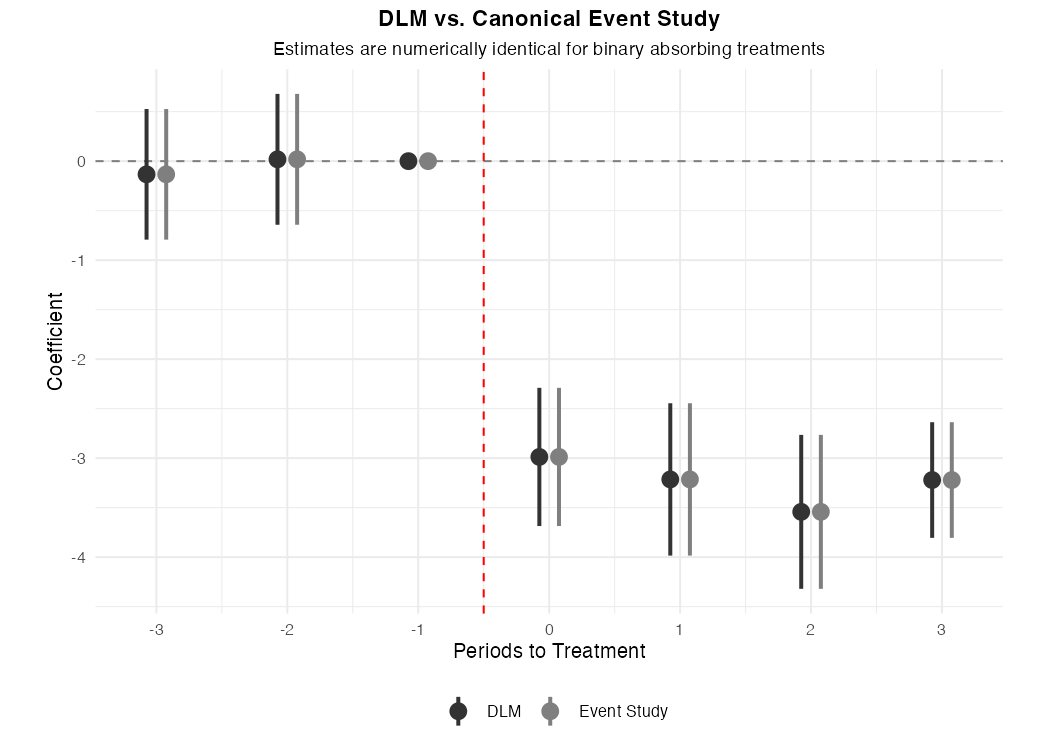
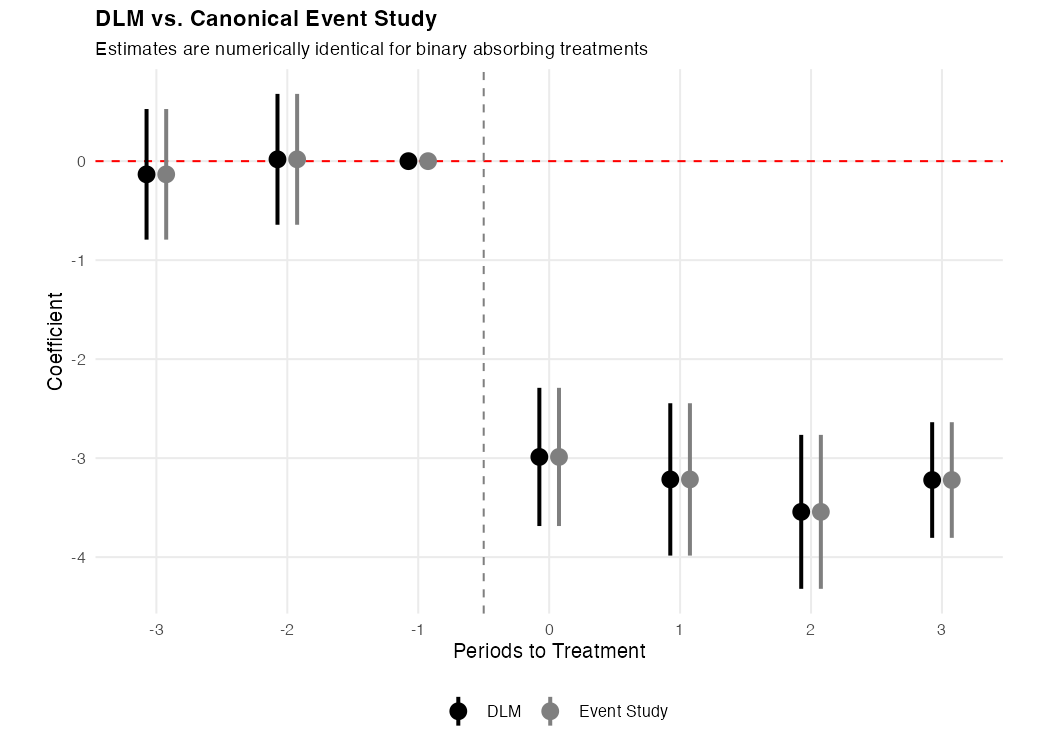
Fix nc700 formatting: red zero line, gray ref, black lines, larger points
- Zero line: red dashed (was gray)
- Reference vline: gray dashed (was red)
- Ribbon: grey20 alpha 0.2 (was gray30/0.3)
- Line/points: black (was gray20), points size 2.5
- Title: left-aligned, caption: right-aligned
- Minor gridlines removed
- Regenerated all plot images with time_labels demo

diff --git a/docs/getting-started/worked-example.md b/docs/getting-started/worked-example.md
@@ -297,18 +297,19 @@ Now plot the canonical event-study estimates:
 
     ```r
     ggplot(es_df, aes(x = time_to_event, y = coef)) +
-      geom_hline(yintercept = 0, lty = 2, color = "gray50") +
-      geom_vline(xintercept = -0.5, lty = 2, color = "red") +
+      geom_hline(yintercept = 0, lty = 2, color = "red") +
+      geom_vline(xintercept = -0.5, lty = 2, color = "gray50") +
       geom_ribbon(aes(ymin = coef - 1.96 * se, ymax = coef + 1.96 * se),
-                  alpha = 0.3, fill = "gray30") +
-      geom_line(color = "gray20", linewidth = 0.8) +
-      geom_point(color = "gray20", size = 1.5) +
+                  alpha = 0.2, fill = "grey20") +
+      geom_line(color = "black", linewidth = 0.8) +
+      geom_point(color = "black", size = 2.5) +
       scale_x_continuous(breaks = -3:3) +
       labs(title = "Canonical Event Study",
            x = "Periods to Treatment", y = "Coefficient") +
       theme_minimal(base_size = 10) +
       theme(aspect.ratio = 0.6,
-            plot.title = element_text(size = 11, face = "bold", hjust = 0.5))
+            plot.title = element_text(size = 11, face = "bold", hjust = 0),
+            panel.grid.minor = element_blank())
     ```
 
 === "Stata"
@@ -326,18 +327,19 @@ And the DLM estimates:
 
     ```r
     ggplot(dlm_df, aes(x = time_to_event, y = coef)) +
-      geom_hline(yintercept = 0, lty = 2, color = "gray50") +
-      geom_vline(xintercept = -0.5, lty = 2, color = "red") +
+      geom_hline(yintercept = 0, lty = 2, color = "red") +
+      geom_vline(xintercept = -0.5, lty = 2, color = "gray50") +
       geom_ribbon(aes(ymin = coef - 1.96 * se, ymax = coef + 1.96 * se),
-                  alpha = 0.3, fill = "gray30") +
-      geom_line(color = "gray20", linewidth = 0.8) +
-      geom_point(color = "gray20", size = 1.5) +
+                  alpha = 0.2, fill = "grey20") +
+      geom_line(color = "black", linewidth = 0.8) +
+      geom_point(color = "black", size = 2.5) +
       scale_x_continuous(breaks = -3:3) +
       labs(title = "Distributed Lag Model",
            x = "Periods to Treatment", y = "Coefficient") +
       theme_minimal(base_size = 10) +
       theme(aspect.ratio = 0.6,
-            plot.title = element_text(size = 11, face = "bold", hjust = 0.5))
+            plot.title = element_text(size = 11, face = "bold", hjust = 0),
+            panel.grid.minor = element_blank())
     ```
 
 === "Stata"
